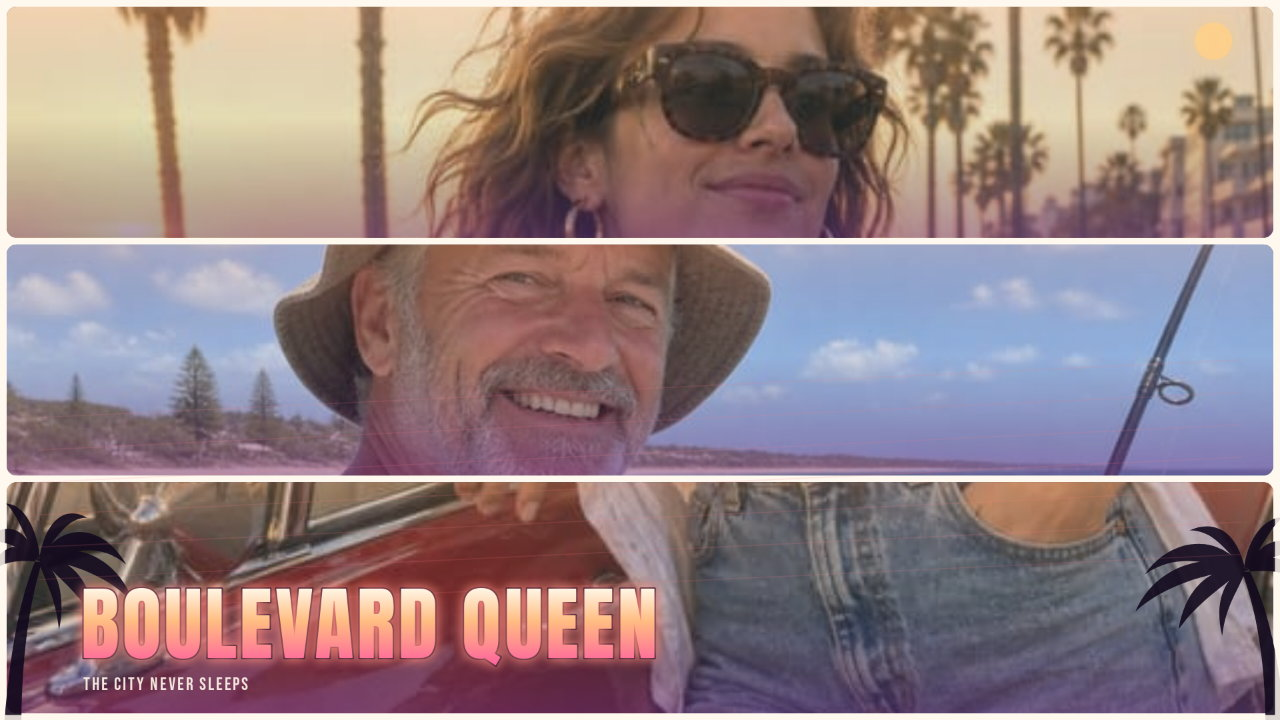
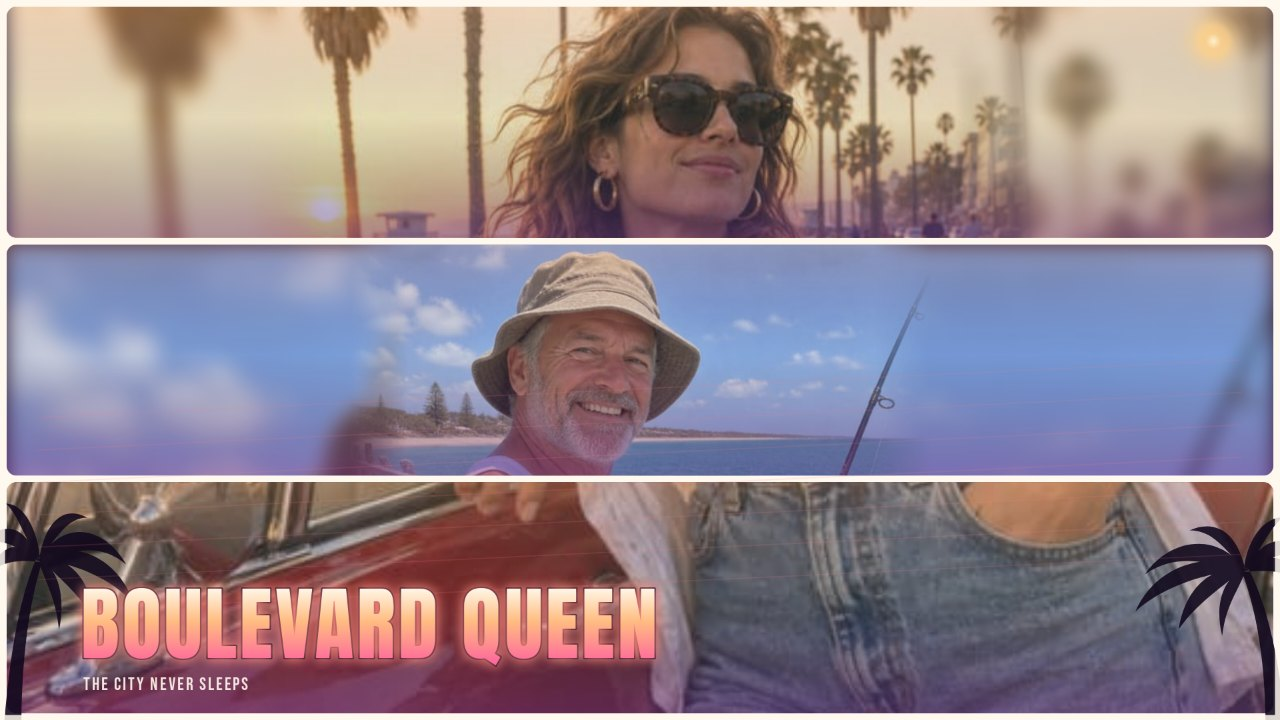
Round 2: uncut face in Trio band, two-sample tray, glowing sun

diff --git a/app/src/cover.js b/app/src/cover.js
@@ -61,6 +61,27 @@ function drawImageCover(context, image, panel, transform) {
   const drawHeight = imageHeight * scale;
   const drawX = panel.x + (panel.w - drawWidth) / 2 + transform.panX * (panel.w - drawWidth);
   const drawY = panel.y + (panel.h - drawHeight) / 2 + transform.panY * (panel.h - drawHeight);
+  if (!transform.fit && transform.zoom < 1) {
+    context.save();
+    context.filter = `blur(${Math.max(8, panel.h * .04)}px)`;
+    drawImageCover(context, image, panel, { ...transform, zoom: 1 });
+    context.restore();
+    const foreground = document.createElement('canvas');
+    foreground.width = Math.ceil(drawWidth);
+    foreground.height = Math.ceil(drawHeight);
+    const foregroundContext = foreground.getContext('2d');
+    foregroundContext.drawImage(image, 0, 0, foreground.width, foreground.height);
+    const feather = foregroundContext.createLinearGradient(0, 0, foreground.width, 0);
+    feather.addColorStop(0, 'transparent');
+    feather.addColorStop(.10, '#fff');
+    feather.addColorStop(.90, '#fff');
+    feather.addColorStop(1, 'transparent');
+    foregroundContext.globalCompositeOperation = 'destination-in';
+    foregroundContext.fillStyle = feather;
+    foregroundContext.fillRect(0, 0, foreground.width, foreground.height);
+    context.drawImage(foreground, drawX, drawY, drawWidth, drawHeight);
+    return;
+  }
   context.drawImage(image, drawX, drawY, drawWidth, drawHeight);
 }
 
@@ -93,19 +114,17 @@ function drawSun(context, width, height, grade, position) {
   const radius = Math.min(width, height) * .026;
   const centerX = width * (position === 'top-left' ? .052 : .948);
   const centerY = radius * 2.2;
-  const glowRadius = radius * 1.8;
+  const glowRadius = radius * 2.2;
   context.save();
-  const glow = context.createRadialGradient(centerX, centerY, radius * .5, centerX, centerY, glowRadius);
-  glow.addColorStop(0, `${grade.sun}70`);
-  glow.addColorStop(.55, `${grade.sun}26`);
+  const glow = context.createRadialGradient(centerX, centerY, 0, centerX, centerY, glowRadius);
+  glow.addColorStop(0, '#fff5d6ee');
+  glow.addColorStop(.18, `${grade.sun}dd`);
+  glow.addColorStop(.38, `${grade.sun}bb`);
+  glow.addColorStop(.52, `${grade.sun}66`);
+  glow.addColorStop(.73, `${grade.sun}22`);
   glow.addColorStop(1, `${grade.sun}00`);
   context.fillStyle = glow;
   context.fillRect(centerX - glowRadius, centerY - glowRadius, glowRadius * 2, glowRadius * 2);
-  context.fillStyle = grade.sun;
-  context.globalAlpha = .85;
-  context.beginPath();
-  context.arc(centerX, centerY, radius, 0, Math.PI * 2);
-  context.fill();
   context.restore();
 }
 

diff --git a/app/src/shots.js b/app/src/shots.js
@@ -5,10 +5,10 @@ export function sceneForQuery(query) {
   const alternate = photo === 'pier' ? 'boulevard' : 'pier';
   const caption = query.get('caption') || (scene === 'cover' ? 'BOULEVARD QUEEN' : scene === 'cover-square' ? 'NEON DRIVE' : 'SUNSET HEIST');
   const base = { scene, caption, titlePosition: 'bottom' };
-  if (scene === 'cover') return { ...base, assignments: [photo, alternate, photo], layout: 'trio', size: 'wide', grade: 'sunset', tagline: 'THE CITY NEVER SLEEPS', pans: [{ panY: -.35 }, { panY: -.31 }, { panY: .35 }] };
+  if (scene === 'cover') return { ...base, assignments: [photo, alternate, photo], layout: 'trio', size: 'wide', grade: 'sunset', tagline: 'THE CITY NEVER SLEEPS', pans: [{ zoom: .62, panY: -.39 }, { zoom: .46, panY: -.5 }, { panY: .35 }] };
   if (scene === 'cover-portrait') return { ...base, assignments: [alternate, photo, photo, alternate, alternate], layout: 'key', size: 'portrait', grade: 'sunset', tagline: 'A NIGHT TO REMEMBER', pans: { 3: { panX: .31 } } };
   if (scene === 'cover-square') return { ...base, assignments: [photo, alternate], layout: 'duo', size: 'square', grade: 'neon', tagline: 'CHASE THE AFTERGLOW' };
-  return { ...base, scene: 'editor', assignments: Array(5).fill(photo), layout: 'key', size: 'square', grade: 'sunset', tagline: 'A NIGHT TO REMEMBER', pans: { 3: { panX: .14 } } };
+  return { ...base, scene: 'editor', samples: [photo, alternate], assignments: Array(5).fill(photo), layout: 'key', size: 'square', grade: 'sunset', tagline: 'A NIGHT TO REMEMBER', pans: { 3: { panX: .14 } } };
 }
 
 export function isCoverScene(scene) {

diff --git a/app/src/main.js b/app/src/main.js
@@ -179,7 +179,7 @@ async function runSelftest() {
 async function bootstrap() {
   wireControls();
   await Promise.allSettled([document.fonts.load('16px Anton'), document.fonts.load('16px Bebas')]);
-  const indices = await loadSamples(shot.assignments);
+  const indices = await loadSamples(shot.samples ?? shot.assignments);
   state.assignments = state.assignments.map((_, index) => indices.get(shot.assignments[index]) ?? 0);
   state.layout = shot.layout;
   for (const [index, pan] of Object.entries(shot.pans ?? {})) Object.assign(state.transforms[index], pan);
